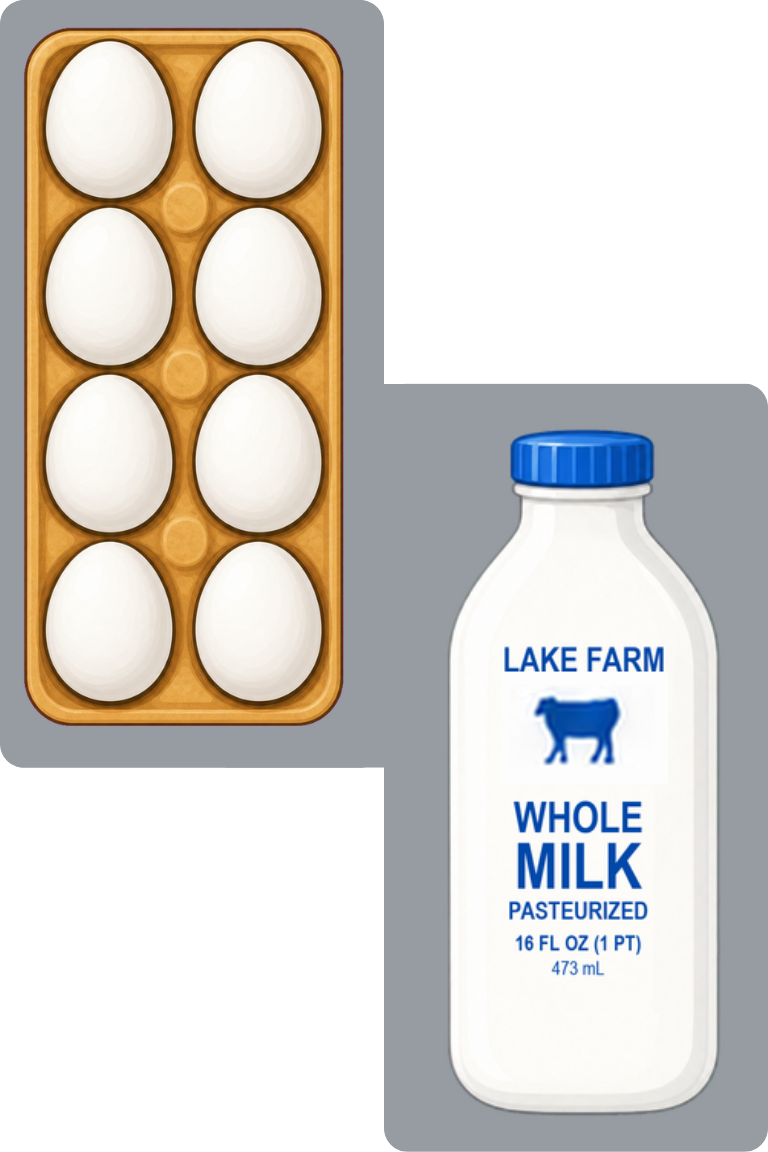
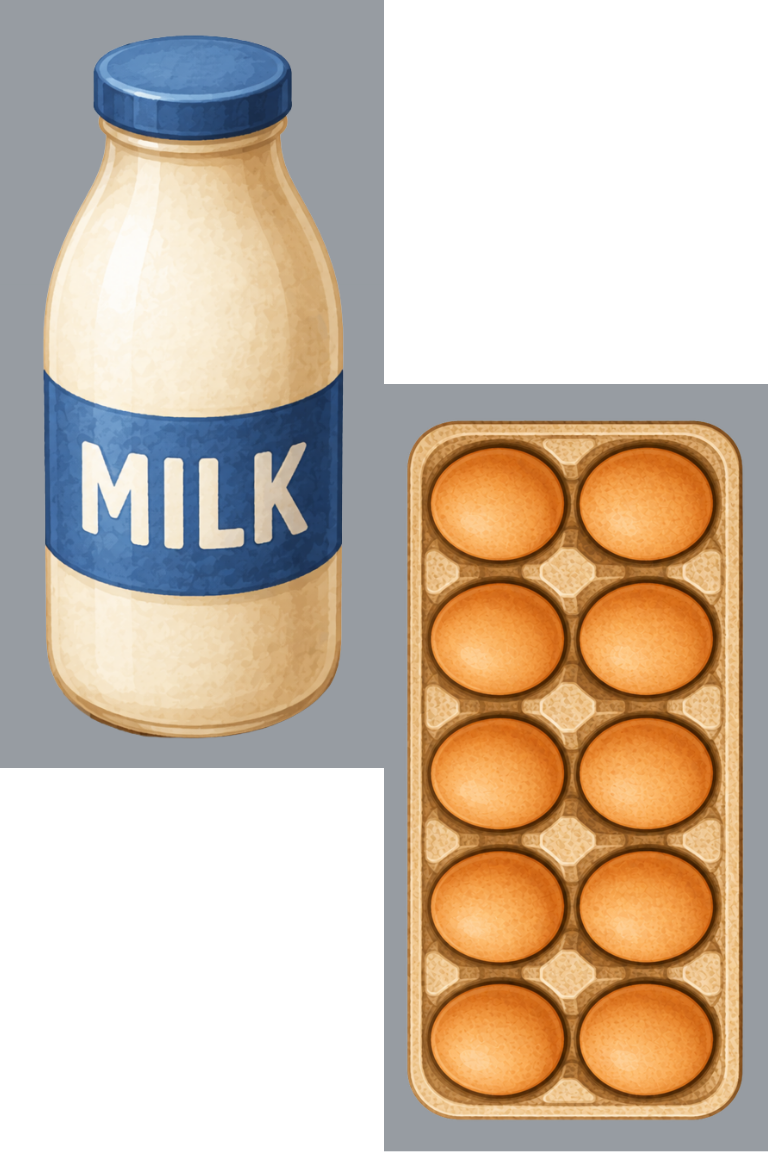
Milk+eggs sprite updated to No Lines version; font uniformity closed
- assets/eggs.png replaced with Ant's 'Milk Eggs No Lines' art (same
  768x1152 grid, same S-piece cell layout, verified served + rendered),
  cache-bust v=12
- Font sweep before Shannon reply caught two stragglers: Stacker and
  PP Play buttons rendered ARIAL (buttons do not inherit font-family);
  Combo step-circle digits were 15px vs 14px. All fixed; every splash
  text element now measures identical across the three games.

diff --git a/UberStacker/index.html b/UberStacker/index.html
@@ -169,7 +169,7 @@
   #demoWrap { margin-top: 22px; }
   /* Play in the shared fixed slot: left/right 24, bottom 52, h54 (same as Combo + PP) */
   #howOv .htActions { position: fixed; left: 24px; right: 24px; bottom: calc(52px + env(safe-area-inset-bottom)); margin: 0 !important; width: auto; display: flex; justify-content: center; z-index: 45; }
-  #howOv .htActions button { width: 100%; height: 54px; font-size: 18px; }
+  #howOv .htActions button { width: 100%; height: 54px; font-size: 18px; font-family: inherit; }  /* buttons do not inherit fonts by default: was falling back to Arial */
   .overlay h1 { font-size: 30px; font-weight: 900; line-height: 1.1; }
   .overlay h1 .e { color: var(--green); }
   .overlay p { font-size: 14px; opacity: .8; line-height: 1.55; max-width: 320px; }
@@ -379,7 +379,7 @@
     sub: "assets/sub.png?v=11",
     ubereats: "assets/ubereats.png?v=16",
     banana: "assets/banana.png?v=10",
-    eggs: "assets/eggs.png?v=11",
+    eggs: "assets/eggs.png?v=12",
     groceries: "assets/groceries.png?v=10",
     nana: "assets/nana.png?v=2",
     produce: "assets/produce.png?v=10",

diff --git a/Multi-View-Screen/10ten.html b/Multi-View-Screen/10ten.html
@@ -459,7 +459,7 @@
   #tutorial { align-items: start; overflow-y: auto; padding-top: clamp(16px, 4.5svh, 60px); padding-bottom: 180px; }  /* clears the fixed Play + T&Cs even if content must scroll */
   #tutorial .tut-lines p { color: #000; }
   #tutorial .tut-lines b { color: #000; }
-  #tutorial .tut-lines .n { background: #fff; color: #000; font-size: 15px; }
+  #tutorial .tut-lines .n { background: #fff; color: #000; font-size: 14px; }
   #tutorial .demo-eq { color: rgba(255, 255, 255, 0.88); }
   #tutorial .demo-eq b { color: #fff; }
   #tutorial .demo-cells .dc { background: rgba(255, 255, 255, 0.08); border-color: rgba(255, 255, 255, 0.14); }

diff --git a/Multi-View-Screen/route-picker.html b/Multi-View-Screen/route-picker.html
@@ -254,6 +254,7 @@
     text-align: center; font-size: 12.5px; font-weight: 700; color: rgba(11,26,16,.72); z-index: 45; }
   .tcline a { color: inherit; text-underline-offset: 3px; }
   #howtoPlay { position: fixed; left: 24px; right: 24px;
+    font-family: 'Uber Move', 'Uber Move Text', 'Inter', system-ui, sans-serif;  /* buttons do not inherit fonts: was Arial */
     bottom: calc(52px + env(safe-area-inset-bottom)); z-index: 45;
     margin: 0; color: #fff; background: #0b0b0b;
     width: auto; height: 54px; padding: 0; font-size: 18px; }
